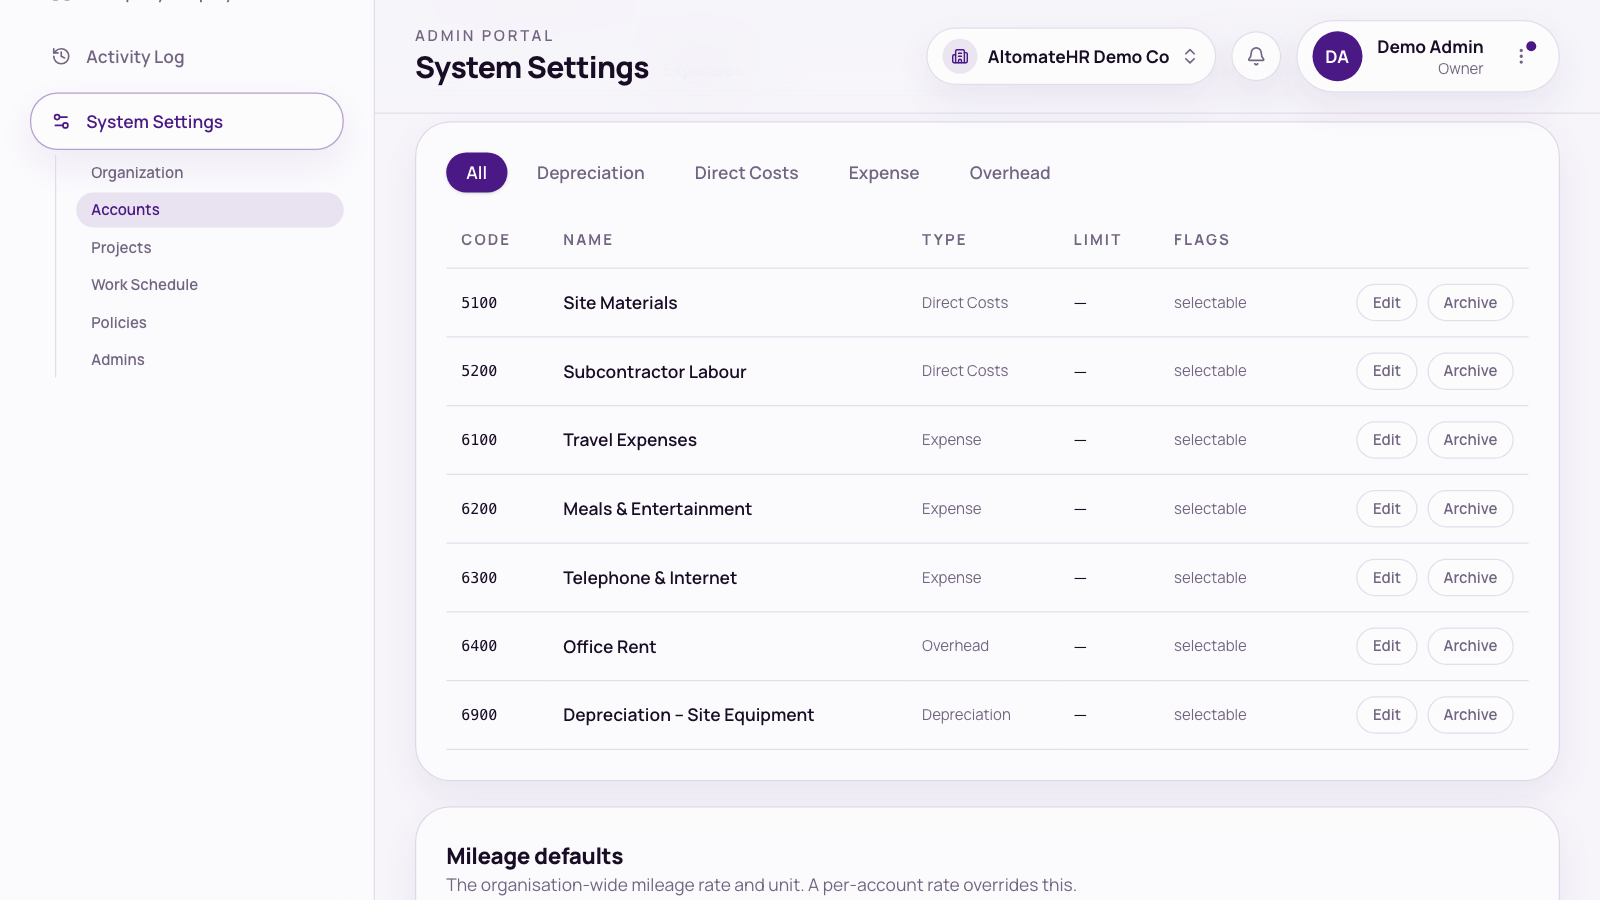
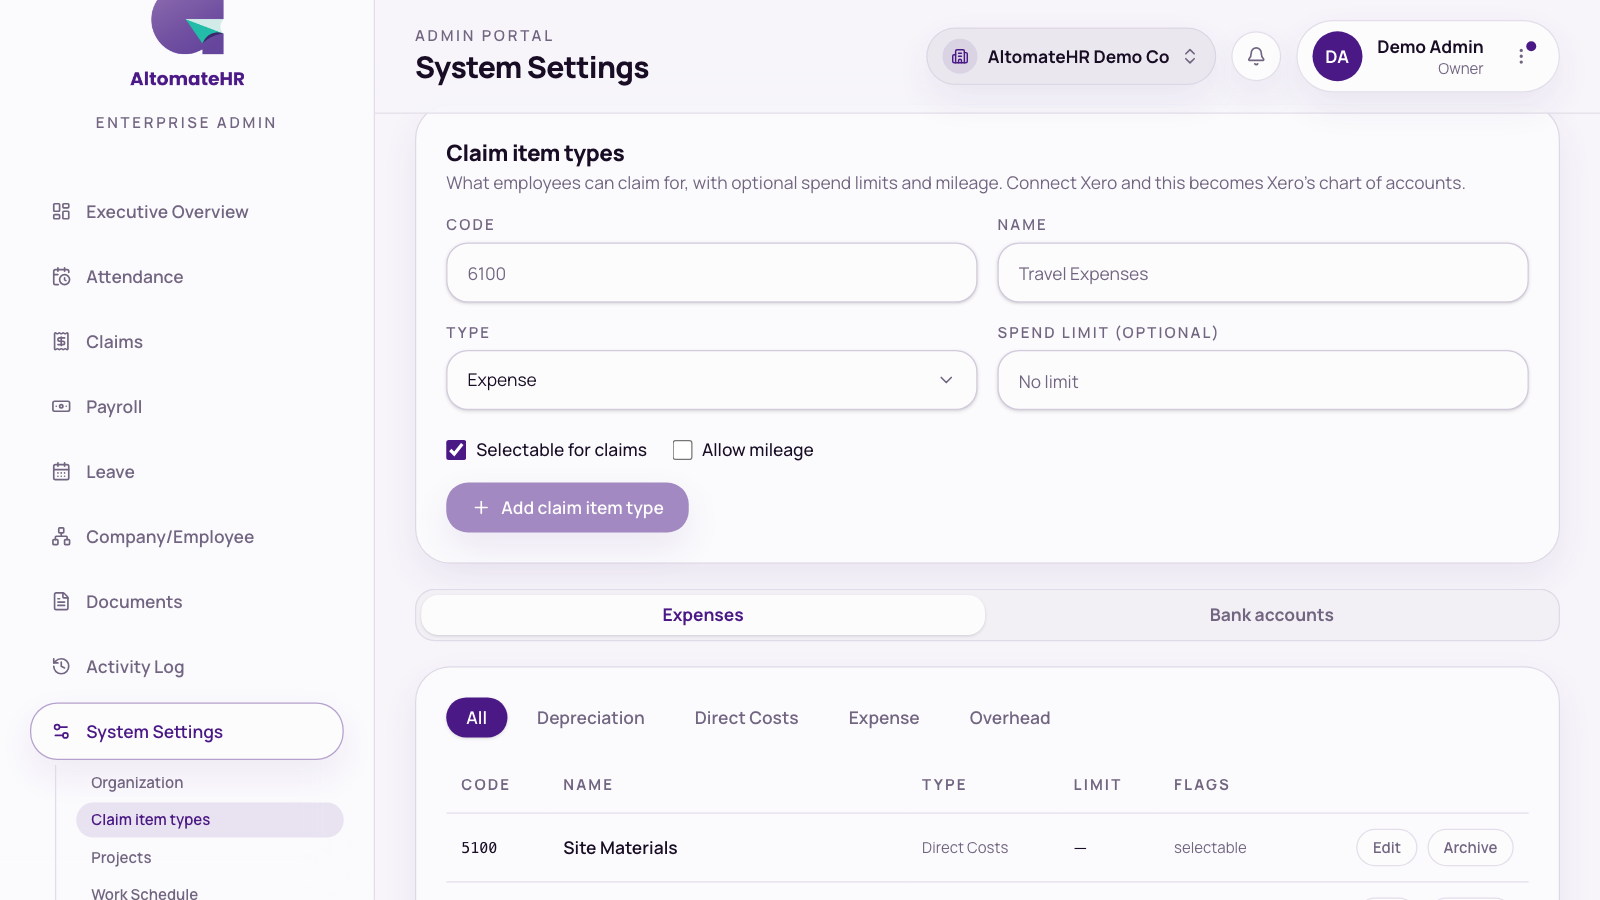
docs: What's new, API docs and guides for starter claim item types
Also fills xeroConnected on the organization update responses, not just GET.

diff --git a/user-guide/altomatehr-admin-guide.html b/user-guide/altomatehr-admin-guide.html
@@ -7,7 +7,7 @@
   Bookmark: this page is correct as of this commit on main. The next update
   re-checks every user-visible change after it — from any branch — then
   moves it forward.
-  user-guide-covered-up-to: 7022a42
+  user-guide-covered-up-to: 89c27fb
 -->
 <html lang="en">
 <head>
@@ -430,7 +430,7 @@
     <p class="topic-lede">Where you land. Built around what needs a decision, not vanity totals.</p>
     <ul>
       <li><strong>Quick actions</strong> — straight to Manage Employee, Company Structure, Organization, Policies,
-        Accounts and Projects.</li>
+        Claim item types (Chart of accounts once Xero is connected) and Projects.</li>
       <li><strong>Work permits</strong> — shown first, and only when it applies: foreign workers whose work permit
         has expired or runs out within 60 days, soonest first, with the permit number and how many days are left
         (or how long ago it expired). With nothing to renew, the card isn't there.</li>
@@ -503,8 +503,10 @@
           <p>A saved signature is an image of a signature printed on the letter, like signing on paper and scanning it.
             It isn't a certified or legally verified digital signature. Only save a signature for someone who has agreed
             to it being printed on company letters.</p></div></li>
-      <li><h4>Accounts</h4>
-        <p>The chart of accounts, in two tabs:</p>
+      <li><h4>Claim item types / Chart of accounts</h4>
+        <p>What employees can claim for. Without Xero this page is called <strong>Claim item types</strong>; once Xero
+          is connected it becomes <strong>Chart of accounts</strong> (in the sidebar, on the Executive Overview card and in
+          the claim form, where the field reads <em>Claim item type</em> or <em>Account</em> to match). It has two tabs:</p>
         <ul>
           <li><strong>Expenses</strong> — what a claim is coded to. Each can be <em>Selectable for claims</em>,
             carry a <strong>spend limit</strong>, and <em>Allow mileage</em> at its own rate. A <strong>Type</strong>
@@ -513,8 +515,21 @@
           <li><strong>Bank accounts</strong> — what a company-paid claim was paid <em>from</em>. Tick
             <strong>Offer for company-paid claims</strong> on the ones employees should be able to pick.</li>
         </ul>
-        <p>Below, <strong>Mileage defaults</strong> sets the company-wide rate and unit (km or miles). With Xero
-          connected, Xero owns the list — press <span class="btn-name">Sync from Xero</span> after changing it there.</p></li>
+        <p>Below, <strong>Mileage defaults</strong> sets the company-wide rate and unit (km or miles).</p>
+        <p><strong>Without Xero</strong> the page opens with the hint <em>What employees can claim for, with optional spend
+          limits and mileage</em>. Fill in a <strong>Code</strong>, <strong>Name</strong> and <strong>Type</strong>, add a
+          <strong>Spend limit (optional)</strong> if you want one, tick <em>Selectable for claims</em> and
+          <em>Allow mileage</em> as needed, and press <span class="btn-name">Add claim item type</span>.
+          A new company starts with 22 starter claim item types — common expense headings such as Advertising &amp; Marketing,
+          Office Expenses and Travel – Local, numbered 400 to 494 — plus a <strong>090 Business Bank Account</strong> on the
+          Bank accounts tab, so employees can file claims from day one. Press <span class="btn-name">Archive</span> on any you
+          don't want; archived ones are hidden until you press <span class="btn-name">Show … archived</span>, where
+          <span class="btn-name">Restore</span> brings one back. <strong>449 Motor Vehicle / Mileage</strong>
+          starts with mileage switched off: press <span class="btn-name">Edit</span> and set your own rate before
+          employees file mileage claims.</p>
+        <p><strong>With Xero connected</strong>, Xero owns the list — press <span class="btn-name">Sync from Xero</span>
+          after changing it there. Connecting Xero archives the starter claim item types, and disconnecting restores them.
+          Anything you archived or restored by hand stays as you left it.</p></li>
       <li><h4>Projects</h4>
         <p>Your work sites. Open a project with <span class="btn-name">Edit</span> to set:</p>
         <ul>
@@ -556,7 +571,7 @@
             <span class="btn-name">Save</span>:
             <ul>
               <li><strong>Modules</strong> — tick <em>All modules, full control</em>, or set each module
-                (Employees, Leave, Projects, Teams, Accounts, Overtime, Claims, Attendance, Payroll, Documents,
+                (Employees, Leave, Projects, Teams, Claim item types / Chart of accounts, Overtime, Claims, Attendance, Payroll, Documents,
                 Activity log) to <span class="btn-name">Off</span>, <span class="btn-name">View</span> or
                 <span class="btn-name">Manage</span>. <em>View</em> lets them see the screens and download what's
                 there; <em>Manage</em> also lets them edit, approve and run. A module set to Off disappears from that
@@ -568,7 +583,7 @@
               <li><strong>Settings</strong> — <em>Can change company settings</em>. Turn it off to let someone work
                 (run payroll, approve, edit employees) without changing how the company is set up. It covers
                 Organization, Work Schedule, Payroll settings, company and statutory details, portal logins and the Xero
-                connection. Accounts and Projects follow their own module level.</li>
+                connection. Claim item types and Projects follow their own module level.</li>
             </ul></li>
           <li><span class="btn-name">Remove</span> — takes the person off as an admin straight away (you confirm
             first). Their login isn't deleted, and you can add them again later.</li>
@@ -603,15 +618,15 @@
     <figure class="shot" data-place="System Settings">
       <div class="shot-grid" data-orient="screen">
         <div class="shot-item">
-          <img src="shots/admin/accounts-bank.png" alt="System Settings → Accounts: the Expenses list with its Type filter (Depreciation, Direct Costs, Expense, Overhead) and Type column" loading="lazy">
-          <p class="shot-cap">Accounts</p>
+          <img src="shots/admin/accounts-bank.png" alt="System Settings → Claim item types: the hint, the add form with the Add claim item type button, and the Expenses list with its Type filter and Type column" loading="lazy">
+          <p class="shot-cap">Claim item types</p>
         </div>
         <div class="shot-item">
           <img src="shots/admin/project-editor.png" alt="System Settings → Projects with Active / Archived tabs and the geofence radius" loading="lazy">
           <p class="shot-cap">Projects</p>
         </div>
       </div>
-      <p class="shot-cap shot-cap-main">Accounts and Projects</p>
+      <p class="shot-cap shot-cap-main">Claim item types and Projects</p>
     </figure>
 
     
@@ -2174,7 +2189,9 @@
     <ul>
       <li><strong>Connect</strong> — sign in to Xero and choose <em>only this company's</em> organisation.</li>
       <li><strong>Chart of accounts</strong> — Xero owns it while connected; <span class="btn-name">Sync from Xero</span> in
-        Accounts. Accounts no longer in Xero are archived.</li>
+        <strong>Chart of accounts</strong> (the page is called Claim item types until Xero is connected). Accounts no longer
+        in Xero are archived. Connecting also archives the starter claim item types a new company begins with;
+        disconnecting restores them.</li>
       <li><strong>Projects</strong> — pulled from Xero Projects, or from the options of a tracking category you choose.
         Once you choose a category, it <em>is</em> the project list: projects made by hand, or not in that category, are
         hidden from the pickers (clearing the category brings them back).</li>

diff --git a/user-guide/altomatehr-employee-guide.html b/user-guide/altomatehr-employee-guide.html
@@ -7,7 +7,7 @@
   Bookmark: this page is correct as of this commit on main. The next update
   re-checks every user-visible change after it — from any branch — then
   moves it forward.
-  user-guide-covered-up-to: 7022a42
+  user-guide-covered-up-to: 89c27fb
 -->
 <html lang="en">
 <head>
@@ -751,7 +751,7 @@
     </ul>
     <h3>The fields worth getting right</h3>
     <ul>
-      <li><strong>Chart of account</strong> — what the expense was for. Your company decides which ones you can pick.</li>
+      <li><strong>Claim item type</strong> — what the expense was for, such as Office Expenses or Travel. Your company decides which ones you can pick. If your company uses Xero, this field is called <strong>Account</strong> instead, and so is the matching line in claim details and the supervisor queue. On a mileage claim it reads <strong>Mileage claim item type</strong> (or <strong>Mileage account</strong>).</li>
       <li><strong>Project</strong> — the site or job it belongs to.</li>
       <li><strong>Company bank account</strong> — for company money: which card or account paid.</li>
       <li><strong>Spending at</strong> — the shop or supplier (required for company money).</li>
@@ -765,7 +765,7 @@
     <p>Enter the distance, the date, and where you went from and to. The amount is worked out from your company's
       mileage rate.</p>
     <div class="note warn"><span class="nt">Over the limit?</span>
-      <p>If a claim is over the spend limit for that account, you can still submit it — it's flagged for your approver
+      <p>If a claim is over the spend limit for that claim item type, you can still submit it — it's flagged for your approver
         to look at.</p>
     </div>
     
@@ -780,7 +780,7 @@
           <p class="shot-cap">Attach the main receipt</p>
         </div>
         <div class="shot-item">
-          <img src="shots/employee/claim-details.png" alt="The final step, filled in from the receipt" loading="lazy">
+          <img src="shots/employee/claim-details.png" alt="The final step of the claim wizard: Title, the Claim item type dropdown, Amount and Expense date" loading="lazy">
           <p class="shot-cap">Claim details</p>
         </div>
         <div class="shot-item">

diff --git a/api-docs/payroll-runs.html b/api-docs/payroll-runs.html
@@ -1956,6 +1956,17 @@ curl "https://&lt;api-host&gt;/payroll/runs/month/2026/1/summary?format=xlsx" \
         </div>
         <h3>Errors</h3>
         <p><code>404</code> — no such run.</p>
+        <div class="callout warn">
+          <strong>Reimbursed claims need a Xero-linked account.</strong> Each claim attached to the
+          run debits the account it was coded to, and only an account that has been synced from
+          Xero (it has a <code>xeroAccountId</code>, see <a href="accounts.html#accounts">Accounts</a>)
+          counts. A claim coded to a hand-made account, or to none, makes the journal
+          <code>ok: false</code> with <code>error</code> reading
+          <code>This run cannot post to Xero yet — reimbursement claims with no Xero-linked expense account: …</code>
+          followed by the claim labels. The reason is that a hand-made account can share a code with a
+          different Xero account and post to the wrong ledger. Fix it by changing the claim's account
+          to a Xero one, then preview again.
+        </div>
 <pre><code>curl https://&lt;api-host&gt;/payroll/runs/run_123/xero/preview \
   -H "Authorization: Bearer wp_live_xxx"</code></pre>
       </section>
@@ -1983,7 +1994,7 @@ curl "https://&lt;api-host&gt;/payroll/runs/month/2026/1/summary?format=xlsx" \
         <h3>Errors</h3>
         <ul>
           <li><code>404</code> — no such run (empty body).</li>
-          <li><code>409</code> <code>{ "error": "…" }</code> — note the body here is just <code>{ "error" }</code>, not the full shape above: not <code>SUBMITTED</code> yet, the org is not connected to Xero, an unmapped account, or an unbalanced journal.</li>
+          <li><code>409</code> <code>{ "error": "…" }</code> — note the body here is just <code>{ "error" }</code>, not the full shape above: not <code>SUBMITTED</code> yet, the org is not connected to Xero, an unmapped account (including a reimbursed claim coded to an account without a Xero id, see <a href="#xero-preview">the preview</a>), or an unbalanced journal.</li>
         </ul>
 <pre><code>curl -X POST https://&lt;api-host&gt;/payroll/runs/run_123/xero/sync \
   -H "Authorization: Bearer wp_live_xxx"</code></pre>

diff --git a/api-docs/organization.html b/api-docs/organization.html
@@ -118,6 +118,7 @@
             <tr><td><code>claimRunCutoffDay</code></td><td>integer</td><td>Day of the month (1–28) the claims run closes. Read-only here.</td></tr>
             <tr><td><code>claimSettlementRoute</code></td><td>string</td><td>Where approved claims are paid out: <code>"XERO_BILL"</code> or <code>"PAYROLL"</code>. Read-only here.</td></tr>
             <tr><td><code>xeroBillStage</code></td><td>string</td><td>Status a claim bill is created with in Xero: <code>"AwaitingPayment"</code> or <code>"Draft"</code>. Read-only here.</td></tr>
+            <tr><td><code>xeroConnected</code></td><td>boolean</td><td><code>true</code> when the company is connected to Xero. Read-only.</td></tr>
             <tr><td><code>supervisorSlaMinutes</code></td><td>integer</td><td>The line the attendance performance report measures supervisors against. Read-only here.</td></tr>
             <tr><td><code>plan</code></td><td>string</td><td><code>"DIY"</code> or <code>"EXPERT"</code>. Read-only.</td></tr>
             <tr><td><code>tier</code></td><td>string | null</td><td><code>"FREE"</code> or <code>"PAID"</code>; <code>null</code> when none is set. Read-only.</td></tr>
@@ -156,6 +157,7 @@
   "claimRunCutoffDay": 25,
   "claimSettlementRoute": "XERO_BILL",
   "xeroBillStage": "AwaitingPayment",
+  "xeroConnected": true,
   "supervisorSlaMinutes": 60,
   "plan": "DIY",
   "tier": "PAID",
@@ -202,7 +204,9 @@
           its default is then saved. See below.
         </p>
         <h3>Response <code>200</code></h3>
-        <p>The updated <a href="#settings">organization object</a>.</p>
+        <p>
+          The updated <a href="#settings">organization object</a>.
+        </p>
         <h3>Errors</h3>
         <ul>
           <li><code>400</code> <code>{ "errors": { … } }</code> — a field is out of range, malformed, or not a valid <code>mileageUnit</code>.</li>

diff --git a/api-docs/accounts.html b/api-docs/accounts.html
@@ -113,6 +113,19 @@
         A claim over its account's <code>limitAmount</code> isn't refused; it's flagged as
         exceeding the limit.
       </div>
+      <div class="callout warn">
+        <strong>Starter accounts come and go with Xero.</strong> A company created without
+        Xero starts with a list of ready-made hand-made accounts (21 <code>EXPENSE</code>
+        accounts such as <code>"Office Expenses"</code>, and one <code>BANK</code> account,
+        <code>"Business Bank Account"</code>) so claims can be filed from day one. When Xero
+        is connected, or a sync brings its accounts in, the starter accounts that were never
+        touched come back with <code>isArchived: true</code>, because Xero's chart replaces
+        them. Disconnecting Xero restores them. Archiving or restoring an account yourself
+        (<a href="#archive-account">archive</a>, <a href="#restore-account">restore</a>) takes
+        it out of that cycle: Xero won't archive or restore it again. Starter accounts can
+        share a <code>code</code> with an account that arrives from Xero, so don't treat
+        <code>code</code> as unique; <code>id</code> is.
+      </div>
 
       <section class="endpoint" id="get-accounts">
         <div class="endpoint-head">
@@ -275,6 +288,10 @@
         </p>
         <h3>Response <code>200</code></h3>
         <p>The <a href="#accounts">account object</a> with <code>isArchived: true</code>.</p>
+        <p>
+          Either way you set it, the account is then yours to manage: a later Xero connect,
+          sync or disconnect leaves its archived state alone.
+        </p>
         <h3>Errors</h3>
         <p><code>404</code> (empty body) — no account with that id in this company.</p>
 <pre><code>curl -X POST https://&lt;api-host&gt;/accounts/acc_123/archive \

diff --git a/frontend/src/features/whats-new/lib/entries.ts b/frontend/src/features/whats-new/lib/entries.ts
@@ -8,7 +8,7 @@
 //
 // Bookmark: the last commit on main these notes already cover. The next update
 // writes up everything after it — from any branch — then moves it forward.
-// whats-new-covered-up-to: 7022a42
+// whats-new-covered-up-to: 89c27fb
 
 export type WhatsNewEntry = {
   /** Release day, yyyy-MM-dd (Malaysia time). Also what "unread" compares. */
@@ -21,6 +21,19 @@ export type WhatsNewEntry = {
 };
 
 export const WHATS_NEW: WhatsNewEntry[] = [
+  {
+    date: "2026-10-27",
+    new: [
+      "Companies without Xero now start with 22 ready-made claim item types, such as Travel – Local, Telephone & Internet and Medical (Staff). Existing companies that don't use Xero and have none get them automatically.",
+    ],
+    improved: [
+      "Without Xero, \"Chart of accounts\" is now called \"Claim item types\" in Settings, the admin menu, the overview, claim forms, claim details and approvals.",
+      "Admins: connecting Xero archives the starter claim item types, since Xero's chart takes over. Disconnecting Xero brings them back.",
+      "Admins: archiving or restoring a starter item yourself keeps your choice, even when you connect or disconnect Xero.",
+      "Admins: the Motor Vehicle / Mileage item starts switched off, so mileage claims on it are refused. Switch it on once your company has set its per-km rate.",
+      "Admins: posting payroll to Xero now stops on a reimbursed claim whose account isn't linked to Xero, and names the claim, instead of posting it under a code Xero may use for a different account.",
+    ],
+  },
   {
     date: "2026-10-26",
     new: [

diff --git a/api-docs/claims.html b/api-docs/claims.html
@@ -810,7 +810,7 @@
               <tr><td><code>Status</code></td><td>no</td><td><code>SUBMITTED</code>, <code>PENDING</code>, <code>APPROVED</code> or <code>REJECTED</code>. Blank means <code>APPROVED</code>; an unrecognised value fails the row.</td></tr>
               <tr><td><code>Claim Type</code></td><td>no</td><td><code>EXPENSE</code> or <code>MILEAGE</code>. Blank or unrecognised becomes <code>EXPENSE</code>.</td></tr>
               <tr><td><code>Payment Type</code></td><td>no</td><td><code>PERSONAL</code> or <code>COMPANY</code>. Blank or unrecognised becomes <code>PERSONAL</code>.</td></tr>
-              <tr><td><code>Account Code</code></td><td>no</td><td>The code of a chart-of-accounts entry. A code the company doesn't have fails the row.</td></tr>
+              <tr><td><code>Account Code</code></td><td>no</td><td>The code of a chart-of-accounts entry. A code the company doesn't have fails the row. When two accounts share a code, the import prefers the one that isn't archived, then the one linked to Xero.</td></tr>
               <tr><td><code>Description</code></td><td>no</td><td>Free text.</td></tr>
               <tr><td><code>Review Notes</code></td><td>no</td><td>Free text.</td></tr>
               <tr><td><code>Claim #</code></td><td>no</td><td>Your own reference, up to 40 characters. Generated when blank.</td></tr>

diff --git a/api-docs/index.html b/api-docs/index.html
@@ -25,7 +25,7 @@
   Bookmark: the pages that exist are correct as of this commit on main. The
   next update re-checks every controller/DTO changed after it — from any
   branch — then moves it forward.
-  api-docs-covered-up-to: 7022a42
+  api-docs-covered-up-to: 89c27fb
 -->
 <div class="layout">
   <nav class="sidebar" aria-label="Documentation">

diff --git a/backend/Modules/Organizations/OrganizationService.cs b/backend/Modules/Organizations/OrganizationService.cs
@@ -57,9 +57,14 @@ public class OrganizationService : IOrganizationService
         var org = await _repo.GetByIdAsync(organizationId);
         if (org is null) return null;
 
+        return await WithXeroAsync(org);
+    }
+
+    // The Xero status reads the caller's current org; only report it for that one.
+    private async Task<OrganizationDto> WithXeroAsync(Organization org)
+    {
         var dto = ToDto(org);
-        // The status reads the caller's current org; only report it for that one.
-        if (organizationId == _currentUser?.OrganizationId)
+        if (org.Id == _currentUser?.OrganizationId)
             dto.XeroConnected = (await _xero.GetStatusAsync()).Connected;
         return dto;
     }
@@ -307,7 +312,7 @@ public class OrganizationService : IOrganizationService
                 org.WorkingDays,
             }));
 
-        return ToDto(org);
+        return await WithXeroAsync(org);
     }
 
     public async Task<OrganizationDto> CreateAsync(
@@ -400,7 +405,7 @@ public class OrganizationService : IOrganizationService
                 XeroBillStage = xeroBillStage.ToString(),
             }));
 
-        return ToDto(org);
+        return await WithXeroAsync(org);
     }
 
     public async Task<OrganizationDto?> UpdatePlanAsync(string organizationId, UpdateOrgPlanDto dto)
